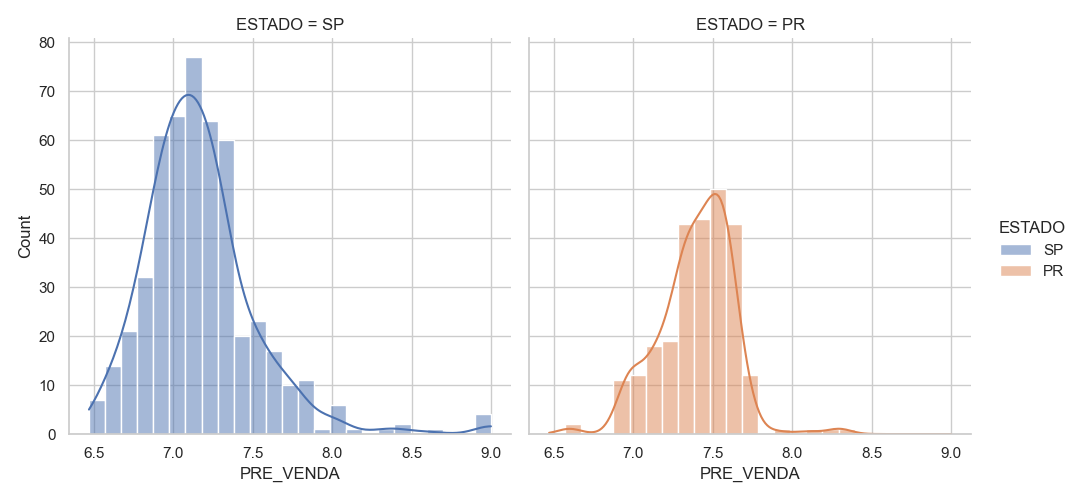
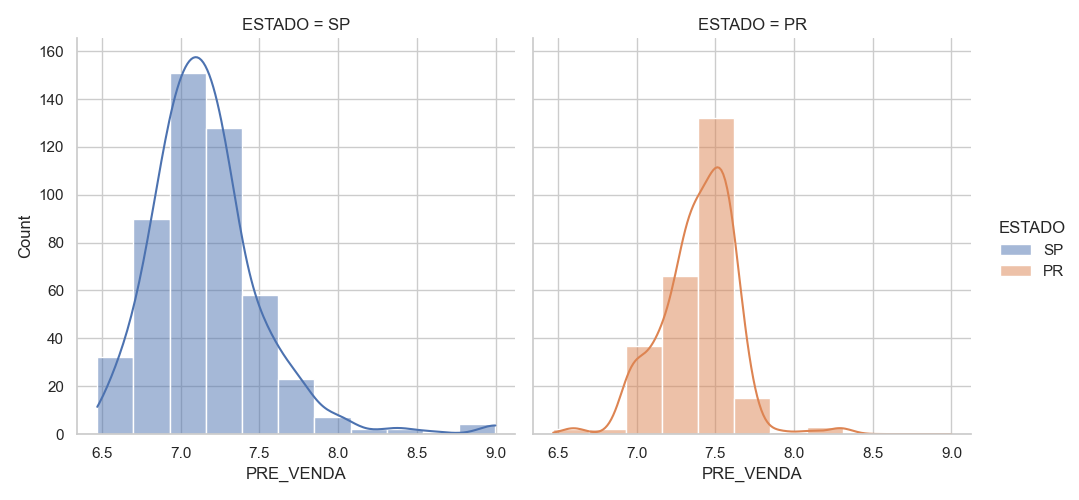
Muda criterio para Sturges

diff --git a/model.py b/model.py
@@ -64,7 +64,7 @@ def add_median_labels(ax, fmt='.1f'):
 def save_dist(df, x, file_name):
     sns.set_theme(style="whitegrid")
 
-    sns.displot(df, x="PRE_VENDA", hue="ESTADO", col=x, kde=True)
+    sns.displot(df, x="PRE_VENDA", hue="ESTADO", col=x, kde=True, bins="sturges")
 
     path = DIST_PATH + file_name
     pyplot.savefig(path, )
